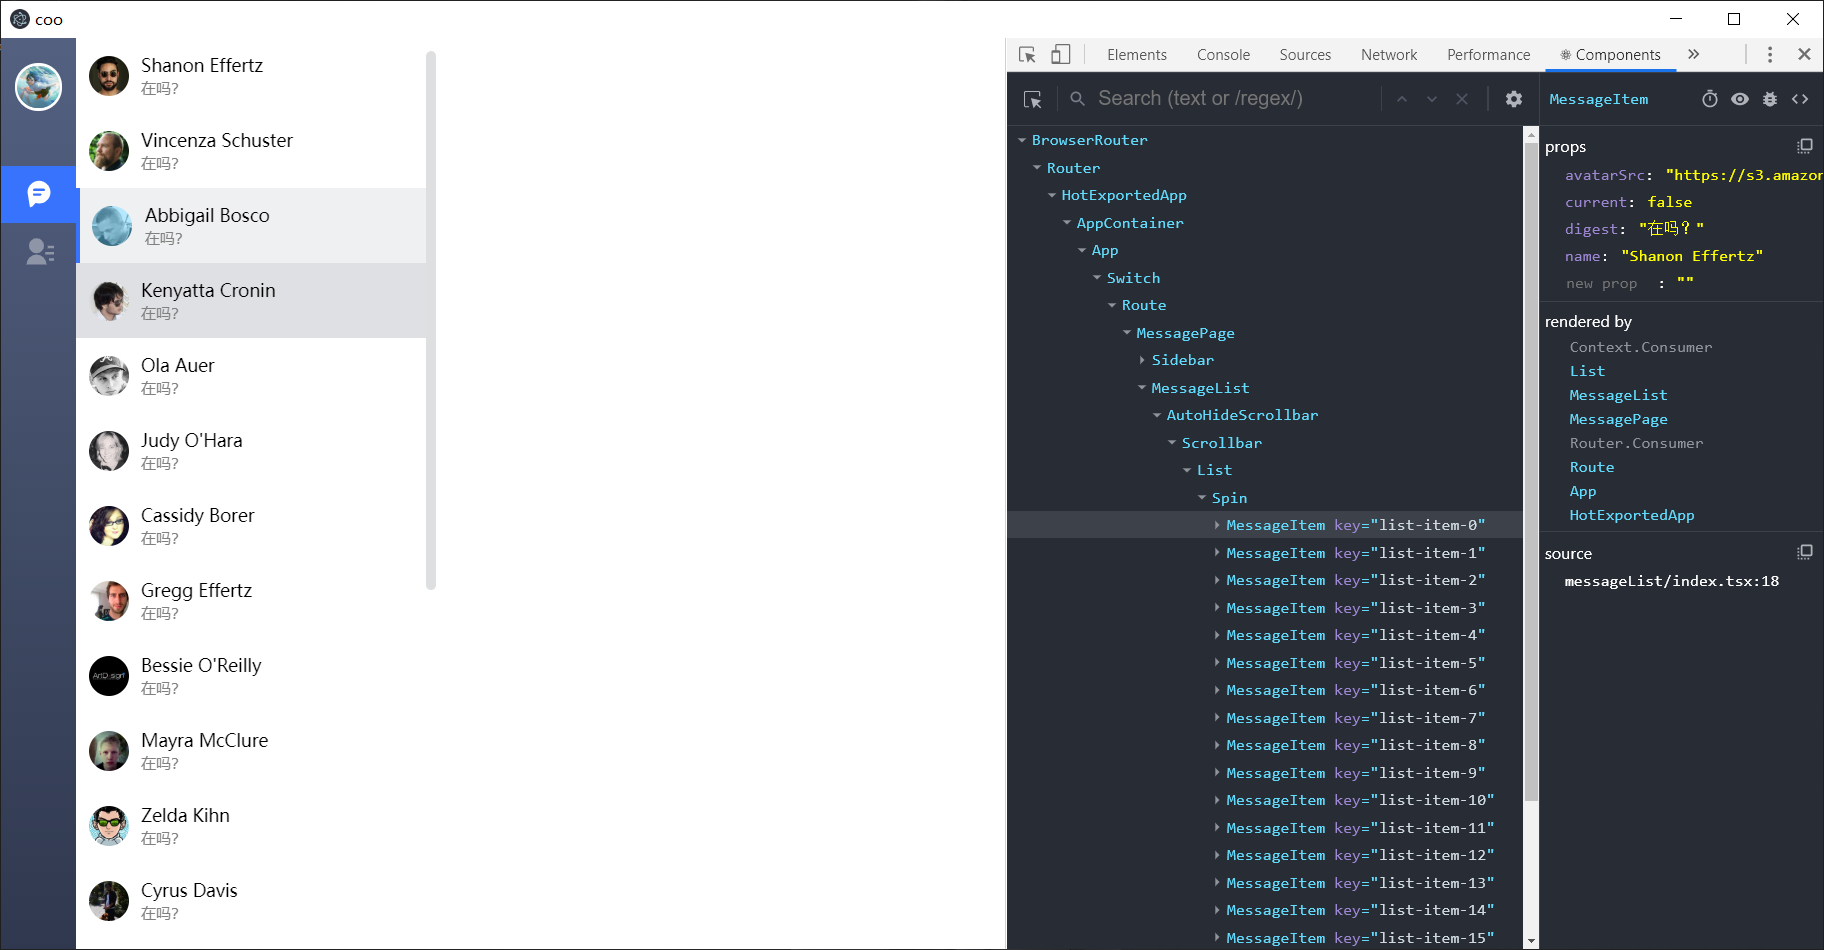
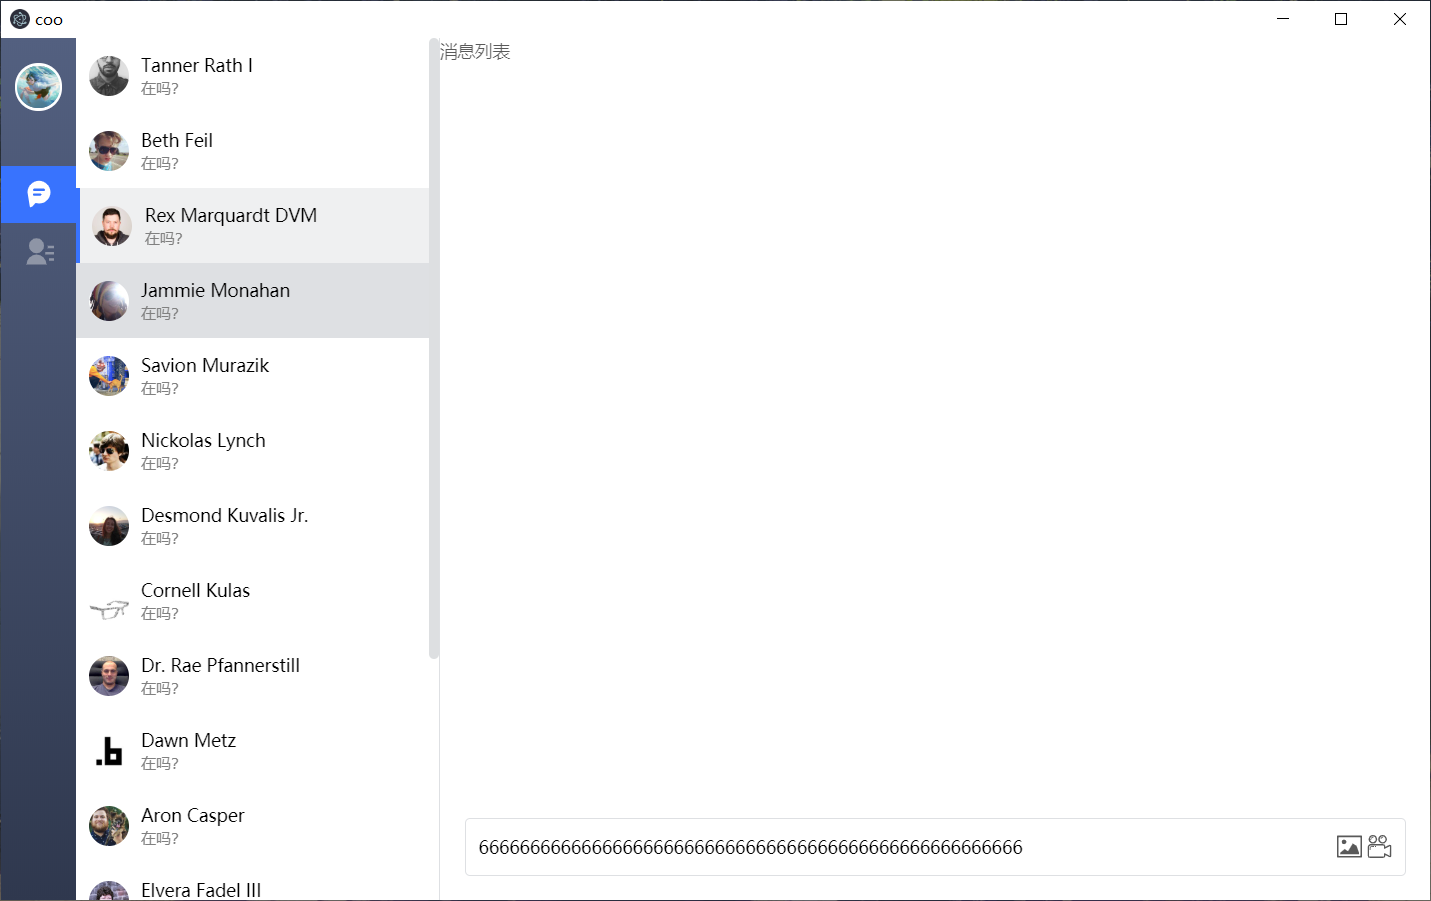
:sparkles: feat: complete messageEditor

diff --git a/src/renderer/assets/js/iconfont.js b/src/renderer/assets/js/iconfont.js
@@ -1,1 +1,1 @@
-!function(s){var e,l='<svg><symbol id="icon-picture" viewBox="0 0 1024 1024"><path d="M640 384l-192 320-127.04-92.672L320 608l-7.552-2.912 5.888 4.32L128 768l0 64 768 0 0-64-96-288L640 384zM288 416c52.992 0 96-42.976 96-96s-43.008-96-96-96-96 42.976-96 96S235.008 416 288 416zM992 64 32 64C14.336 64 0 78.336 0 96l0 832c0 17.696 14.336 32 32 32l960 0c17.696 0 32-14.304 32-32L1024 96C1024 78.336 1009.696 64 992 64zM960 864c0 17.696-14.304 32-32 32L96 896c-17.664 0-32-14.304-32-32L64 160c0-17.664 14.336-32 32-32l832 0c17.696 0 32 14.336 32 32L960 864z"  ></path></symbol><symbol id="icon-video1" viewBox="0 0 1024 1024"><path d="M514.2 48C577 48 637.8 60.3 695 84.5c55.3 23.4 105 56.9 147.7 99.6 42.7 42.7 76.2 92.4 99.6 147.7 24.2 57.2 36.5 118.1 36.5 180.8s-12.3 123.6-36.5 180.8c-23.4 55.3-56.9 105-99.6 147.7-42.7 42.7-92.4 76.2-147.7 99.6-57.2 24.2-118.1 36.5-180.8 36.5s-123.6-12.3-180.8-36.5c-55.3-23.4-105-56.9-147.7-99.6-42.7-42.7-76.2-92.4-99.6-147.7C62 636.1 49.7 575.3 49.7 512.5S62 389 86.2 331.7c23.4-55.3 56.9-105 99.6-147.7 42.7-42.7 92.4-76.2 147.7-99.6C390.7 60.3 451.5 48 514.2 48m0-40C235.6 8 9.7 233.9 9.7 512.5S235.6 1017 514.2 1017s504.5-225.9 504.5-504.5S792.9 8 514.2 8z" fill="#999999" ></path><path d="M401.3 283.8c2.8 0 5.4 0.8 7.9 2.4l334.4 213.6c6 3.8 6.9 9.6 6.9 12.6s-0.9 8.8-6.9 12.6L409.2 738.8c-2.6 1.6-5.2 2.4-7.9 2.4-6.3 0-15.1-4.7-15.1-15.1V298.9c0-10.4 8.8-15.1 15.1-15.1m0-40c-28.6 0-55.1 22.8-55.1 55.1v427.3c0 32.3 26.5 55.1 55.1 55.1 9.9 0 20.1-2.7 29.5-8.7L765.2 559c33.8-21.6 33.8-71.1 0-92.7L430.8 252.6c-9.5-6-19.6-8.8-29.5-8.8z" fill="#999999" ></path></symbol><symbol id="icon-contacts-fill" viewBox="0 0 1024 1024"><path d="M85.333333 938.666667a341.333333 341.333333 0 1 1 682.666667 0H85.333333z m341.333334-384c-141.44 0-256-114.56-256-256s114.56-256 256-256 256 114.56 256 256-114.56 256-256 256z m426.666666 170.666666h170.666667v85.333334h-170.666667v-85.333334z m-128-213.333333h298.666667v85.333333h-298.666667v-85.333333z m85.333334-213.333333h213.333333v85.333333h-213.333333V298.666667z"  ></path></symbol><symbol id="icon-message-" viewBox="0 0 1024 1024"><path d="M122.88 450.56C122.88 235.66336 297.10336 61.44 512 61.44s389.12 174.22336 389.12 389.12-174.22336 389.12-389.12 389.12c-42.43456 0-83.29216-6.79936-121.52832-19.3536l-107.86816 119.27552A70.144 70.144 0 0 1 230.58432 962.56a34.7136 34.7136 0 0 1-34.7136-30.5152C147.21024 652.14464 122.88 491.66336 122.88 450.56z m225.28-122.88a40.96 40.96 0 1 0 0 81.92h327.68a40.96 40.96 0 1 0 0-81.92H348.16z m0 163.84a40.96 40.96 0 1 0 0 81.92h204.8a40.96 40.96 0 1 0 0-81.92H348.16z"  ></path></symbol></svg>',t=(e=document.getElementsByTagName("script"))[e.length-1].getAttribute("data-injectcss");if(t&&!s.__iconfont__svg__cssinject__){s.__iconfont__svg__cssinject__=!0;try{document.write("<style>.svgfont {display: inline-block;width: 1em;height: 1em;fill: currentColor;vertical-align: -0.1em;font-size:16px;}</style>")}catch(e){console&&console.log(e)}}!function(e){if(document.addEventListener)if(~["complete","loaded","interactive"].indexOf(document.readyState))setTimeout(e,0);else{var t=function(){document.removeEventListener("DOMContentLoaded",t,!1),e()};document.addEventListener("DOMContentLoaded",t,!1)}else document.attachEvent&&(o=e,c=s.document,i=!1,(l=function(){try{c.documentElement.doScroll("left")}catch(e){return void setTimeout(l,50)}n()})(),c.onreadystatechange=function(){"complete"==c.readyState&&(c.onreadystatechange=null,n())});function n(){i||(i=!0,o())}var o,c,i,l}(function(){var e,t,n,o,c,i;(e=document.createElement("div")).innerHTML=l,l=null,(t=e.getElementsByTagName("svg")[0])&&(t.setAttribute("aria-hidden","true"),t.style.position="absolute",t.style.width=0,t.style.height=0,t.style.overflow="hidden",n=t,(o=document.body).firstChild?(c=n,(i=o.firstChild).parentNode.insertBefore(c,i)):o.appendChild(n))})}(window);
+!function(a){var t,i='<svg><symbol id="icon-picture" viewBox="0 0 1024 1024"><path d="M640 384l-192 320-127.04-92.672L320 608l-7.552-2.912 5.888 4.32L128 768l0 64 768 0 0-64-96-288L640 384zM288 416c52.992 0 96-42.976 96-96s-43.008-96-96-96-96 42.976-96 96S235.008 416 288 416zM992 64 32 64C14.336 64 0 78.336 0 96l0 832c0 17.696 14.336 32 32 32l960 0c17.696 0 32-14.304 32-32L1024 96C1024 78.336 1009.696 64 992 64zM960 864c0 17.696-14.304 32-32 32L96 896c-17.664 0-32-14.304-32-32L64 160c0-17.664 14.336-32 32-32l832 0c17.696 0 32 14.336 32 32L960 864z"  ></path></symbol><symbol id="icon-video" viewBox="0 0 1024 1024"><path d="M239.786667 393.813333c97.393778 0 176.611556-79.203556 176.611555-176.583111S337.180444 40.632889 239.786667 40.632889c-97.365333 0-176.583111 79.217778-176.583111 176.597333 0 97.379556 79.203556 176.583111 176.583111 176.583111z m0-296.291555c66.019556 0 119.722667 53.703111 119.722666 119.708444s-53.703111 119.694222-119.722666 119.694222c-66.005333 0-119.694222-53.688889-119.694223-119.694222 0-66.019556 53.688889-119.708444 119.694223-119.708444z" fill="" ></path><path d="M175.715556 217.244444l-0.071112-3.797333c-0.056889-1.621333-0.056889-1.621333 0.298667-3.484444a14.250667 14.250667 0 0 0-11.292444-16.654223 14.307556 14.307556 0 0 0-16.654223 11.292445 36.977778 36.977778 0 0 0-0.796444 9.784889l0.056889 2.844444a14.236444 14.236444 0 0 0 28.458667 0.014222zM174.691556 187.889778a14.193778 14.193778 0 0 0 11.832888-6.314667 64.014222 64.014222 0 0 1 53.262223-28.444444 14.222222 14.222222 0 1 0 0-28.444445 92.430222 92.430222 0 0 0-76.899556 41.059556 14.236444 14.236444 0 0 0 11.804445 22.144zM637.994667 393.813333c97.408 0 176.611556-79.203556 176.611555-176.583111S735.402667 40.632889 637.994667 40.632889c-97.365333 0-176.583111 79.217778-176.583111 176.597333 0.014222 97.379556 79.232 176.583111 176.583111 176.583111z m0-296.291555c66.033778 0 119.722667 53.703111 119.722666 119.708444s-53.688889 119.694222-119.722666 119.694222c-66.005333 0-119.694222-53.688889-119.694223-119.694222 0.014222-66.019556 53.703111-119.708444 119.694223-119.708444z" fill="" ></path><path d="M572.913778 187.889778a14.193778 14.193778 0 0 0 11.832889-6.314667 64 64 0 0 1 53.248-28.444444c7.879111 0 14.222222-6.357333 14.222222-14.222223 0-7.864889-6.343111-14.222222-14.222222-14.222222a92.401778 92.401778 0 0 0-76.885334 41.059556 14.222222 14.222222 0 0 0 11.804445 22.144zM979.256889 456.846222c-9.315556-9.528889-20.935111-14.634667-35.086222-14.634666-11.505778 0-23.907556 3.086222-38.968889 10.368a18042.595556 18042.595556 0 0 1-150.499556 79.317333l0.696889-10.666667c0.056889-0.696889 0.085333-2.787556 0.085333-3.498666 0-55.338667-44.231111-103.253333-98.588444-103.253334H128.711111c-53.447111 0-100.280889 52.565333-100.280889 107.932445V894.151111c0 53.262222 44.999111 89.201778 100.280889 89.201778h528.184889c54.840889 0 97.834667-39.068444 98.531556-92.714667-0.014222 0.056889-0.014222 0.128-0.028445 0.028445l-1.479111-23.665778c37.788444 18.944 96.497778 49.379556 150.940444 78.051555 1.550222 0.824889 2.972444 1.536 4.664889 2.076445 14.805333 4.551111 26.595556 7.68 37.959111 7.751111 20.266667-0.156444 32.568889-10.069333 38.542223-18.332444 7.082667-9.770667 9.528889-22.414222 9.528889-39.523556V512.853333c0-11.335111 1.450667-38.001778-16.298667-56.007111z m-38.897778 439.566222c-3.968-0.938667-8.206222-2.261333-11.164444-3.171555-191.317333-100.721778-197.973333-100.892444-206.421334-100.892445-7.836444 0-15.331556 2.872889-20.721777 8.590223-5.361778 5.688889-8.135111 12.643556-7.665778 20.465777l4.195555 68.778667c-0.412444 22.030222-18.588444 36.280889-41.699555 36.280889H128.711111c-24.149333 0-43.392-10.24-43.392-32.312889V522.410667c0-24.092444 21.176889-51.043556 43.392-51.043556v-0.014222h528.184889c22.314667 0 41.201778 22.300444 41.685333 45.468444l-4.167111 61.425778c-0.554667 7.864889 2.176 15.644444 7.537778 21.418667 5.390222 5.774222 12.942222 9.059556 20.835556 9.059555 9.272889 0 11.747556-0.028444 208.170666-105.088 3.882667-1.877333 6.826667-2.958222 8.96-3.584 0.341333 2.545778 0.568889 6.286222 0.483556 11.875556l-0.042667 384.483555z" fill="" ></path><path d="M755.413333 890.652444l0.042667-0.867555c0 0.298667-0.042667 0.583111-0.042667 0.867555zM947.911111 954.922667l-0.426667-0.028445-0.440888 0.028445h0.867555zM755.456 889.784889l0.014222-0.327111-0.014222 0.327111zM286.122667 499.797333h-120.803556c-28.544 0-51.555556 35.2-51.555555 61.511111v72.277334a14.222222 14.222222 0 1 0 28.444444-0.014222v-72.277334c0-13.240889 12.714667-33.038222 23.111111-33.038222h120.803556a14.222222 14.222222 0 1 0 0-28.458667zM357.233778 499.811556h-14.222222a14.222222 14.222222 0 1 0 0 28.444444h14.222222a14.222222 14.222222 0 1 0 0-28.444444z" fill="" ></path></symbol><symbol id="icon-video1" viewBox="0 0 1024 1024"><path d="M514.2 48C577 48 637.8 60.3 695 84.5c55.3 23.4 105 56.9 147.7 99.6 42.7 42.7 76.2 92.4 99.6 147.7 24.2 57.2 36.5 118.1 36.5 180.8s-12.3 123.6-36.5 180.8c-23.4 55.3-56.9 105-99.6 147.7-42.7 42.7-92.4 76.2-147.7 99.6-57.2 24.2-118.1 36.5-180.8 36.5s-123.6-12.3-180.8-36.5c-55.3-23.4-105-56.9-147.7-99.6-42.7-42.7-76.2-92.4-99.6-147.7C62 636.1 49.7 575.3 49.7 512.5S62 389 86.2 331.7c23.4-55.3 56.9-105 99.6-147.7 42.7-42.7 92.4-76.2 147.7-99.6C390.7 60.3 451.5 48 514.2 48m0-40C235.6 8 9.7 233.9 9.7 512.5S235.6 1017 514.2 1017s504.5-225.9 504.5-504.5S792.9 8 514.2 8z" fill="#999999" ></path><path d="M401.3 283.8c2.8 0 5.4 0.8 7.9 2.4l334.4 213.6c6 3.8 6.9 9.6 6.9 12.6s-0.9 8.8-6.9 12.6L409.2 738.8c-2.6 1.6-5.2 2.4-7.9 2.4-6.3 0-15.1-4.7-15.1-15.1V298.9c0-10.4 8.8-15.1 15.1-15.1m0-40c-28.6 0-55.1 22.8-55.1 55.1v427.3c0 32.3 26.5 55.1 55.1 55.1 9.9 0 20.1-2.7 29.5-8.7L765.2 559c33.8-21.6 33.8-71.1 0-92.7L430.8 252.6c-9.5-6-19.6-8.8-29.5-8.8z" fill="#999999" ></path></symbol><symbol id="icon-contacts-fill" viewBox="0 0 1024 1024"><path d="M85.333333 938.666667a341.333333 341.333333 0 1 1 682.666667 0H85.333333z m341.333334-384c-141.44 0-256-114.56-256-256s114.56-256 256-256 256 114.56 256 256-114.56 256-256 256z m426.666666 170.666666h170.666667v85.333334h-170.666667v-85.333334z m-128-213.333333h298.666667v85.333333h-298.666667v-85.333333z m85.333334-213.333333h213.333333v85.333333h-213.333333V298.666667z"  ></path></symbol><symbol id="icon-message-" viewBox="0 0 1024 1024"><path d="M122.88 450.56C122.88 235.66336 297.10336 61.44 512 61.44s389.12 174.22336 389.12 389.12-174.22336 389.12-389.12 389.12c-42.43456 0-83.29216-6.79936-121.52832-19.3536l-107.86816 119.27552A70.144 70.144 0 0 1 230.58432 962.56a34.7136 34.7136 0 0 1-34.7136-30.5152C147.21024 652.14464 122.88 491.66336 122.88 450.56z m225.28-122.88a40.96 40.96 0 1 0 0 81.92h327.68a40.96 40.96 0 1 0 0-81.92H348.16z m0 163.84a40.96 40.96 0 1 0 0 81.92h204.8a40.96 40.96 0 1 0 0-81.92H348.16z"  ></path></symbol></svg>',e=(t=document.getElementsByTagName("script"))[t.length-1].getAttribute("data-injectcss");if(e&&!a.__iconfont__svg__cssinject__){a.__iconfont__svg__cssinject__=!0;try{document.write("<style>.svgfont {display: inline-block;width: 1em;height: 1em;fill: currentColor;vertical-align: -0.1em;font-size:16px;}</style>")}catch(t){console&&console.log(t)}}!function(t){if(document.addEventListener)if(~["complete","loaded","interactive"].indexOf(document.readyState))setTimeout(t,0);else{var e=function(){document.removeEventListener("DOMContentLoaded",e,!1),t()};document.addEventListener("DOMContentLoaded",e,!1)}else document.attachEvent&&(l=t,n=a.document,o=!1,(i=function(){try{n.documentElement.doScroll("left")}catch(t){return void setTimeout(i,50)}c()})(),n.onreadystatechange=function(){"complete"==n.readyState&&(n.onreadystatechange=null,c())});function c(){o||(o=!0,l())}var l,n,o,i}(function(){var t,e,c,l,n,o;(t=document.createElement("div")).innerHTML=i,i=null,(e=t.getElementsByTagName("svg")[0])&&(e.setAttribute("aria-hidden","true"),e.style.position="absolute",e.style.width=0,e.style.height=0,e.style.overflow="hidden",c=e,(l=document.body).firstChild?(n=c,(o=l.firstChild).parentNode.insertBefore(n,o)):l.appendChild(c))})}(window);

diff --git a/src/renderer/components/navbar/index.tsx b/src/renderer/components/navbar/index.tsx
@@ -1,11 +1,11 @@
 import * as React from 'react';
 import { IconFont } from 'lib';
 
-import SidebarAvatar from './sidebarAvatar';
-import MenuItem from './menuItem';
+import NavbarAvatar from './navbarAvatar';
+import NavItem from './navItem';
 import './style.scss';
 
-export default function Sidebar() {
+export default function Navbar() {
     const [activatedMenuItemIndex, setActivatedMenuItemIndex] = React.useState(-1);
 
     const handleClickAvatar = () => {
@@ -21,11 +21,11 @@ export default function Sidebar() {
     };
 
     return (
-        <aside className="sidebar">
-            <SidebarAvatar onClick={handleClickAvatar} />
+        <aside className="navbar">
+            <NavbarAvatar onClick={handleClickAvatar} />
             <IconFont type="message1" />
-            <MenuItem activated={activatedMenuItemIndex === 0} iconType="icon-message-" onClick={handleClickMessage} />
-            <MenuItem
+            <NavItem activated={activatedMenuItemIndex === 0} iconType="icon-message-" onClick={handleClickMessage} />
+            <NavItem
                 activated={activatedMenuItemIndex === 1}
                 iconType="icon-contacts-fill"
                 onClick={handleClickContacts}

diff --git a/src/renderer/components/messageEditor/style.scss b/src/renderer/components/messageEditor/style.scss
@@ -1,0 +1,50 @@
+@import '~styles/theme.scss';
+
+.message-editor-container {
+    min-height: 44px;
+    max-height: 200px;
+    margin: 0 20px;
+    margin-bottom: 20px;
+    padding: 8px 10px;
+    overflow: auto;
+    border: 1px solid $line-frame-gray;
+    border-radius: 4px;
+
+    &::-webkit-scrollbar {
+        width: 8px;
+
+        &-thumb {
+            background-color: rgb(221, 223, 225);
+            border-radius: 5px;
+
+            &:hover {
+                background-color: rgb(187, 191, 196);
+            }
+        }
+    }
+
+    .message-editor {
+        display: inline-block;
+        width: auto;
+        min-width: calc(100% - 48px);
+        max-width: 100%;
+        padding: 4px 0;
+        color: black;
+        word-break: break-all;
+        outline: none;
+    }
+
+    .toolbar {
+        float: right;
+        width: 48px;
+        margin-top: 4px;
+
+        &-item {
+            font-size: 20px;
+
+            &:not(:last-child) {
+                margin: 0 4px;
+            }
+        }
+    }
+}

diff --git a/src/renderer/components/navbar/navbarAvatar.tsx b/src/renderer/components/navbar/navbarAvatar.tsx
@@ -4,19 +4,19 @@ import { Avatar } from 'antd';
 
 import avatarPath from 'assets/images/avatar.jpg';
 
-interface SidebarAvatarProps {
+interface NavbarAvatarProps {
     onClick: (event?: React.MouseEvent<HTMLSpanElement, MouseEvent>) => void;
 }
 
-export default function SidebarAvatar({ onClick }: SidebarAvatarProps) {
+export default function NavbarAvatar({ onClick }: NavbarAvatarProps) {
     const handleClick = () => {
         onClick();
     };
 
     return (
-        <Link className="sidebar-avatar-link" to="/login" onClick={handleClick}>
+        <Link className="navbar-avatar-link" to="/login" onClick={handleClick}>
             <div className="avatar-wrapper">
-                <Avatar className="sidebar-avatar" src={avatarPath} size={34} />
+                <Avatar className="navbar-avatar" src={avatarPath} size={34} />
             </div>
         </Link>
     );

diff --git a/src/renderer/components/navbar/navItem.tsx b/src/renderer/components/navbar/navItem.tsx
@@ -2,14 +2,14 @@ import * as React from 'react';
 import classNames from 'classnames';
 import { IconFont } from 'lib';
 
-interface MenuItemProps {
+interface NavItemProps {
     activated: boolean;
     iconType: string;
     onClick: (activated: boolean) => void;
 }
 
-function MenuItem({ iconType, activated, onClick }: MenuItemProps) {
-    const className = classNames('menu-item', { 'menu-item-activated': activated });
+function NavItem({ iconType, activated, onClick }: NavItemProps) {
+    const className = classNames('nav-item', { 'nav-item-activated': activated });
     const handleClick = () => onClick(activated);
 
     return (
@@ -19,4 +19,4 @@ function MenuItem({ iconType, activated, onClick }: MenuItemProps) {
     );
 }
 
-export default MenuItem;
+export default NavItem;

diff --git a/src/renderer/pages/message/index.tsx b/src/renderer/pages/message/index.tsx
@@ -1,15 +1,16 @@
 import * as React from 'react';
-import { Sidebar, SessionList, MessageInput } from 'components';
+import { Navbar, SessionList, MessageList, MessageEditor } from 'components';
 
 import './style.scss';
 
 export default function MessagePage() {
     return (
         <div className="message">
-            <Sidebar />
+            <Navbar />
             <SessionList />
             <main>
-                <MessageInput />
+                <MessageList />
+                <MessageEditor />
             </main>
         </div>
     );

diff --git a/src/renderer/components/navbar/style.scss b/src/renderer/components/navbar/style.scss
@@ -1,6 +1,6 @@
 @import '~styles/theme.scss';
 
-.sidebar {
+.navbar {
     display: flex;
     flex-basis: 60px;
     flex-direction: column;
@@ -9,7 +9,7 @@
     height: 100vh;
     background-image: linear-gradient(rgb(83, 96, 128), rgb(47, 56, 78));
 
-    .sidebar-avatar-link {
+    .navbar-avatar-link {
         margin: 20px 0 30px;
 
         .avatar-wrapper {
@@ -18,7 +18,7 @@
         }
     }
 
-    .menu-item {
+    .nav-item {
         display: flex;
         align-items: center;
         justify-content: center;

diff --git a/src/renderer/components/messageEditor/index.tsx b/src/renderer/components/messageEditor/index.tsx
@@ -1,0 +1,16 @@
+import * as React from 'react';
+import { IconFont } from 'lib';
+
+import './style.scss';
+
+export default function MessageEditor() {
+    return (
+        <div className="message-editor-container">
+            <div className="message-editor" contentEditable />
+            <div className="toolbar">
+                <IconFont className="toolbar-item" type="icon-picture" />
+                <IconFont className="toolbar-item" type="icon-video" />
+            </div>
+        </div>
+    );
+}

diff --git a/src/renderer/components/sessionList/sessionItem.tsx b/src/renderer/components/sessionList/sessionItem.tsx
@@ -18,7 +18,7 @@ export default function SessionItem({ current, avatarSrc, name, digest }: Messag
     return (
         <div className={className}>
             <Avatar className="avatar" src={avatarSrc} />
-            <div className="item-right">
+            <div className="session-item-main">
                 <span className="name">{name}</span>
                 <span className="digest">{digest}</span>
             </div>

diff --git a/src/renderer/components/index.tsx b/src/renderer/components/index.tsx
@@ -1,3 +1,4 @@
-export { default as Sidebar } from './sidebar';
+export { default as Navbar } from './navbar';
 export { default as SessionList } from './sessionList';
-export { default as MessageInput } from './messageInput';
+export { default as MessageEditor } from './messageEditor';
+export { default as MessageList } from './messageList';

diff --git a/src/renderer/pages/message/style.scss b/src/renderer/pages/message/style.scss
@@ -2,4 +2,10 @@
     display: flex;
     width: 100vw;
     height: 100vh;
+
+    main {
+        display: flex;
+        flex-direction: column;
+        justify-content: space-between;
+    }
 }

diff --git a/src/renderer/components/sessionList/style.scss b/src/renderer/components/sessionList/style.scss
@@ -40,7 +40,7 @@
             margin: 0 10px;
         }
 
-        .item-right {
+        &-main {
             display: flex;
             flex-direction: column;
 
